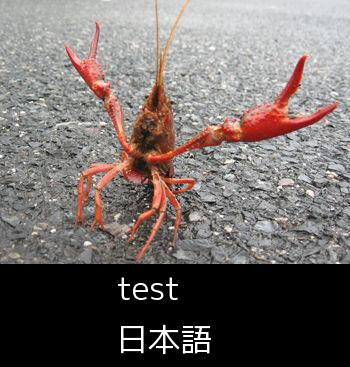
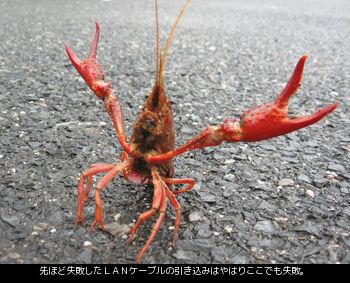
Optimize font size

diff --git a/app/Controller/SmabloController.php b/app/Controller/SmabloController.php
@@ -18,38 +18,45 @@ class SmabloController extends AppController {
     $this->modelClass = null;
     $message = '';
 
+    # 画像の指定
     $jpeg = "files/56a5570f.jpg";
+    # 画像の大きさを取得
     list( $max_width, $max_height ) = getimagesize( $jpeg );
 
     if ($this->request->data){
       //$message = Sanitize::stripAll(
       //  $this->request->data['text1']);
-        $message = $this->request->data['text1'];
+      # テキストエリアから取得
+      $message = $this->request->data['text1'];
 
+      # フォント指定
       $font = "/usr/local/share/fonts/mplus-1p-regular.ttf";
-      $font_size = 24;
 
+      # フォントサイズを最適化
+      $font_size = $this->optimize_font_size( 48, $font, $message, $max_width );
     
       $str_img_size = imageftbbox( $font_size, 0, $font, $message );
       $width = $str_img_size[2] - $str_img_size[6];
       $height = $str_img_size[3] - $str_img_size[7];
 
+      # 文字列を書いただけの画像を作成
       $str_img = imagecreatetruecolor( $width + $font_size, $height + $font_size );
       $col = imagecolorallocate( $str_img, 255, 255, 255 );
 
       imagettftext( $str_img, $font_size, 0, $font_size / 2, $font_size + $font_size / 2, $col, $font, $message);
-      imagejpeg($str_img, "files/string.jpg");
+      imagejpeg($str_img, "files/string.jpg"); # 固定はやめよう。いつか失敗する
       
+      # オリジナルと文字列の画像を合体
       $orig_img = imagecreatefromjpeg($jpeg);
       $img = imagecreatetruecolor($max_width, $max_height + $height + $font_size);
       imagecopyresampled($img, $orig_img, 0, 0, 0, 0, $max_width, $max_height, $max_width, $max_height);
       imagecopyresampled($img,$str_img,$max_width / 2 - $width / 2 - $font_size,$max_height,0,0,$max_width,$max_height,$max_width,$max_height);
 
-      imagejpeg($img,"files/saved.jpg");
+      # マージした画像を生成
+      imagejpeg($img,"files/saved.jpg"); # 固定はやめる
 
-
+      # ビューに渡す文字列の生成
       $result = '<img src="/cake/files/saved.jpg" width="100%" style="max-width:' . $max_width . 'px;">';
-      $result .= '<br /><img src="/cake/files/string.jpg" width="100%" style="max-width:' . $width . 'px;">';
 
     } else {
       $result = '<img src="/cake/' . $jpeg . '" width="100%" style="max-width:' . $max_width . 'px;">';
@@ -58,6 +65,22 @@ class SmabloController extends AppController {
     $this->set("result", $result);
     $this->set("header_for_layout", "Sample");
     $this->set("footer_for_layout", "Copyright by Daisuke Ozaki. 2012");
+  }
+
+  private function optimize_font_size( $fsize, $font, $message, $max_width ) {
+
+      $font_size = $fsize;
+      $str_img_size = imageftbbox( $font_size, 0, $font, $message );
+      $width = $str_img_size[2] - $str_img_size[6];
+
+      while( $width >= $max_width )
+      {
+        # 20%縮めてみる
+        $font_size = (int) ( $font_size * 0.8 );
+        $str_img_size = imageftbbox( $font_size, 0, $font, $message );
+        $width = $str_img_size[2] - $str_img_size[6];
+      }
+      return $font_size;
   }
 }
 
